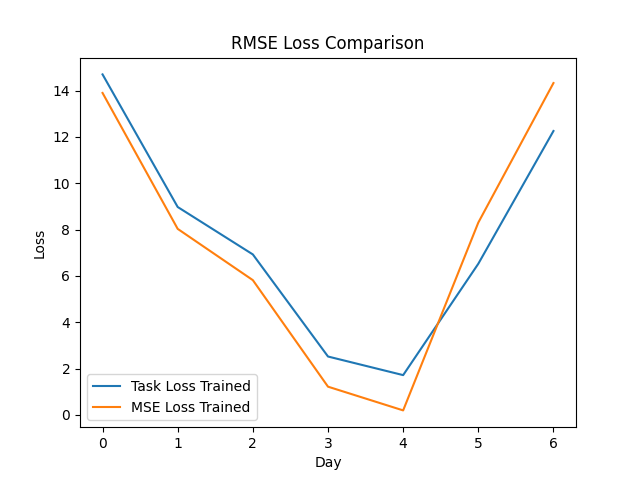
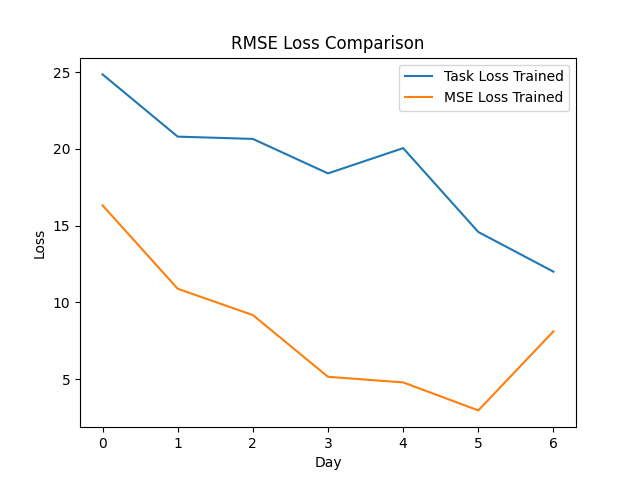
Added CalibNN for beta

diff --git a/model_classes.py b/model_classes.py
@@ -228,29 +228,6 @@ class ODEFunc(nn.Module):
     def __init__(self):
         super(ODEFunc,self).__init__()
 
-        # self.N = nn.Parameter(torch.tensor(1938000.0,device=DEVICE))
-        # self.Ca = nn.Parameter(torch.tensor(0.425,device=DEVICE))
-        # self.Cp = nn.Parameter(torch.tensor(1.0,device=DEVICE))
-        # self.Cm = nn.Parameter(torch.tensor(1.0,device=DEVICE))
-        # self.Cs = nn.Parameter(torch.tensor(1.0,device=DEVICE))
-        # self.alpha = nn.Parameter(torch.tensor(0.4875,device=DEVICE))
-        # self.delta = nn.Parameter(torch.tensor(0.1375,device=DEVICE))
-        # self.mu = nn.Parameter(torch.tensor(0.928125,device=DEVICE))
-        # self.gamma = nn.Parameter(torch.tensor(1/3.5,device=DEVICE))
-        # self.lambdaa = nn.Parameter(torch.tensor(1/7,device=DEVICE))
-        # self.lambdap = nn.Parameter(torch.tensor(1/1.5,device=DEVICE))
-        # self.lambdam = nn.Parameter(torch.tensor(1/5.5,device=DEVICE))
-        # self.lambdas = nn.Parameter(torch.tensor(1/5.5,device=DEVICE))
-        # self.rhor = nn.Parameter(torch.tensor(1/15,device=DEVICE))
-        # self.rhod = nn.Parameter(torch.tensor(1/13.3,device=DEVICE))
-
-        # self.gamma = nn.Parameter(torch.tensor(3.5,device=DEVICE))
-        # self.lambdaa = nn.Parameter(torch.tensor(7.0,device=DEVICE))
-        # self.lambdap = nn.Parameter(torch.tensor(1.5,device=DEVICE))
-        # self.lambdam = nn.Parameter(torch.tensor(5.5,device=DEVICE))
-        # self.lambdas = nn.Parameter(torch.tensor(5.5,device=DEVICE))
-        # self.rhor = nn.Parameter(torch.tensor(15.0,device=DEVICE))
-        # self.rhod = nn.Parameter(torch.tensor(13.3,device=DEVICE))
         self.N = 1938000.0
         self.Ca = 0.425
         self.Cp = 1.0

diff --git a/new_nets.py b/new_nets.py
@@ -10,6 +10,20 @@ import math
 import sys
 import csv
 
+class CalibNN(nn.Module):
+    def __init__(self, input_size=1, hidden_size=10, output_size=1):
+        super(CalibNN, self).__init__()
+        self.fc1 = nn.Linear(input_size, hidden_size)
+        self.fc2 = nn.Linear(hidden_size, hidden_size)
+        self.fc3 = nn.Linear(hidden_size, output_size)
+        self.relu = nn.ReLU()
+
+    def forward(self, x):
+        x = self.relu(self.fc1(x))
+        x = self.relu(self.fc2(x))
+        x = self.fc3(x)
+        return x
+
 def task_train_loss(Y_sched, Y_actual, params):
     # return (params["gamma_under"] * torch.clamp(Y_actual - Y_sched, min=0) + 
     #         params["gamma_over"] * torch.clamp(Y_sched - Y_actual, min=0) + 
@@ -55,6 +69,12 @@ def rmse_test_loss(Y_sched, Y_actual):
 #"which" and "save_folder" parameters not used
 def eval_net(loss, variables, params, save_folder):
     func = model_classes.ODEFunc()
+
+    calib_nn = CalibNN()
+    x = torch.tensor([1.0], device=DEVICE)  # Initialize x to 1
+    # Get the beta value from the CalibNN
+    beta = calib_nn(x)
+    func.set_beta(beta.item())
 
     #Initialize sigma for NLL loss
     # sigma = torch.tensor([1.0], requires_grad=True)
